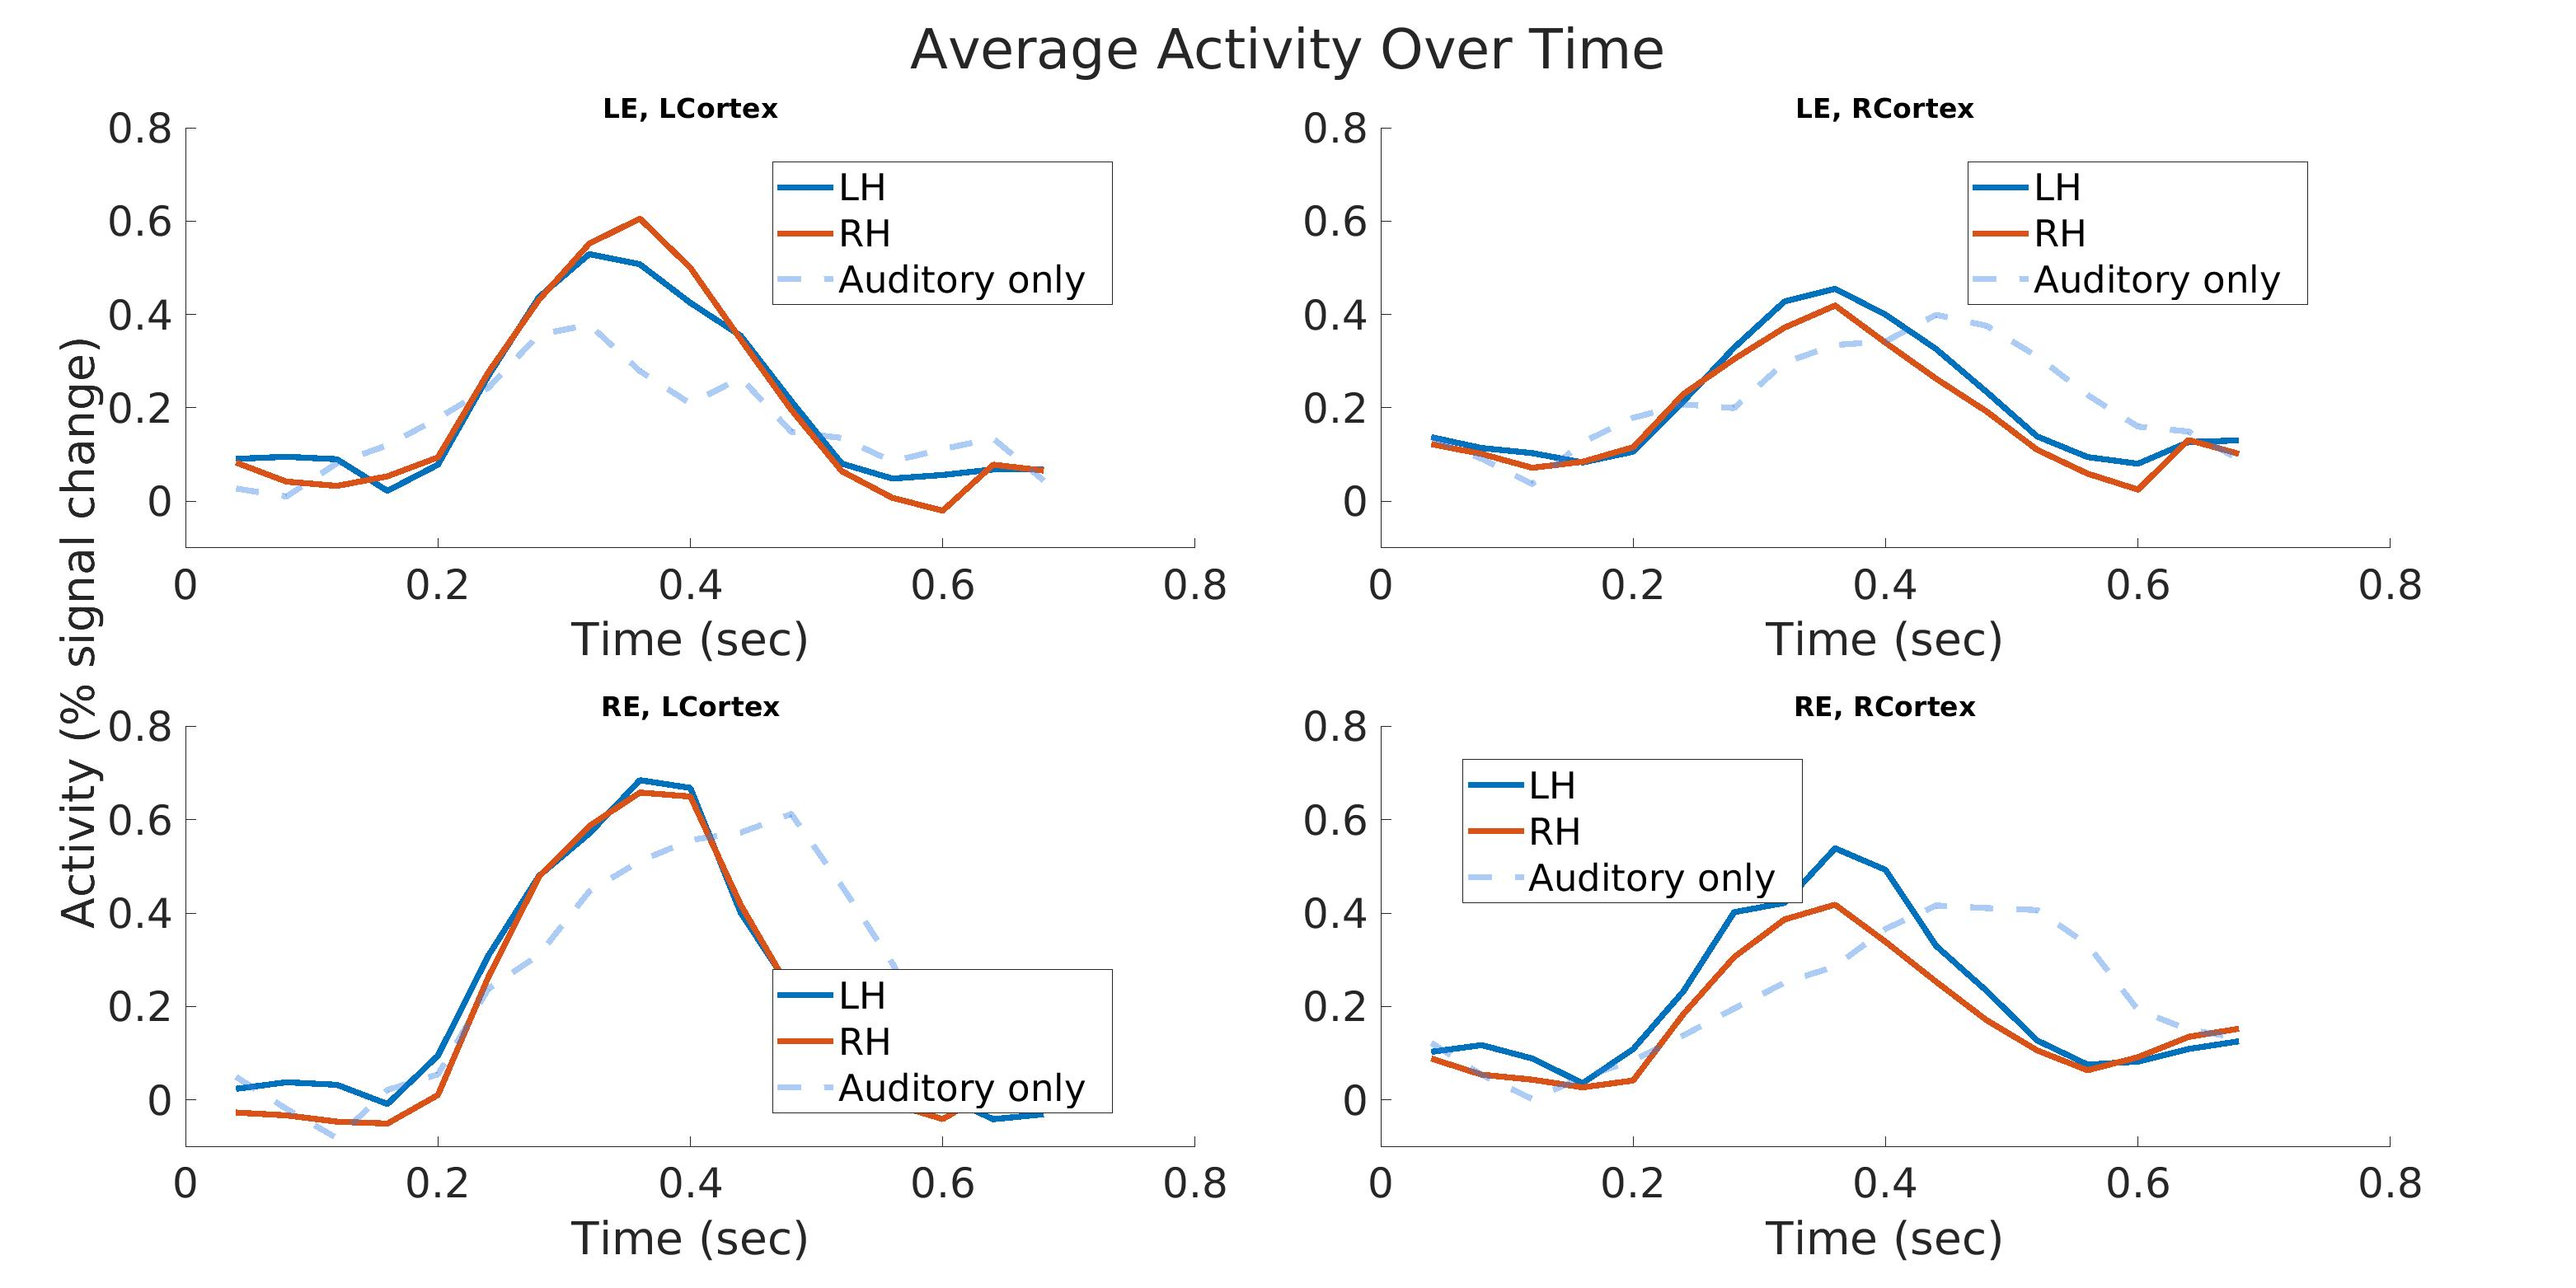
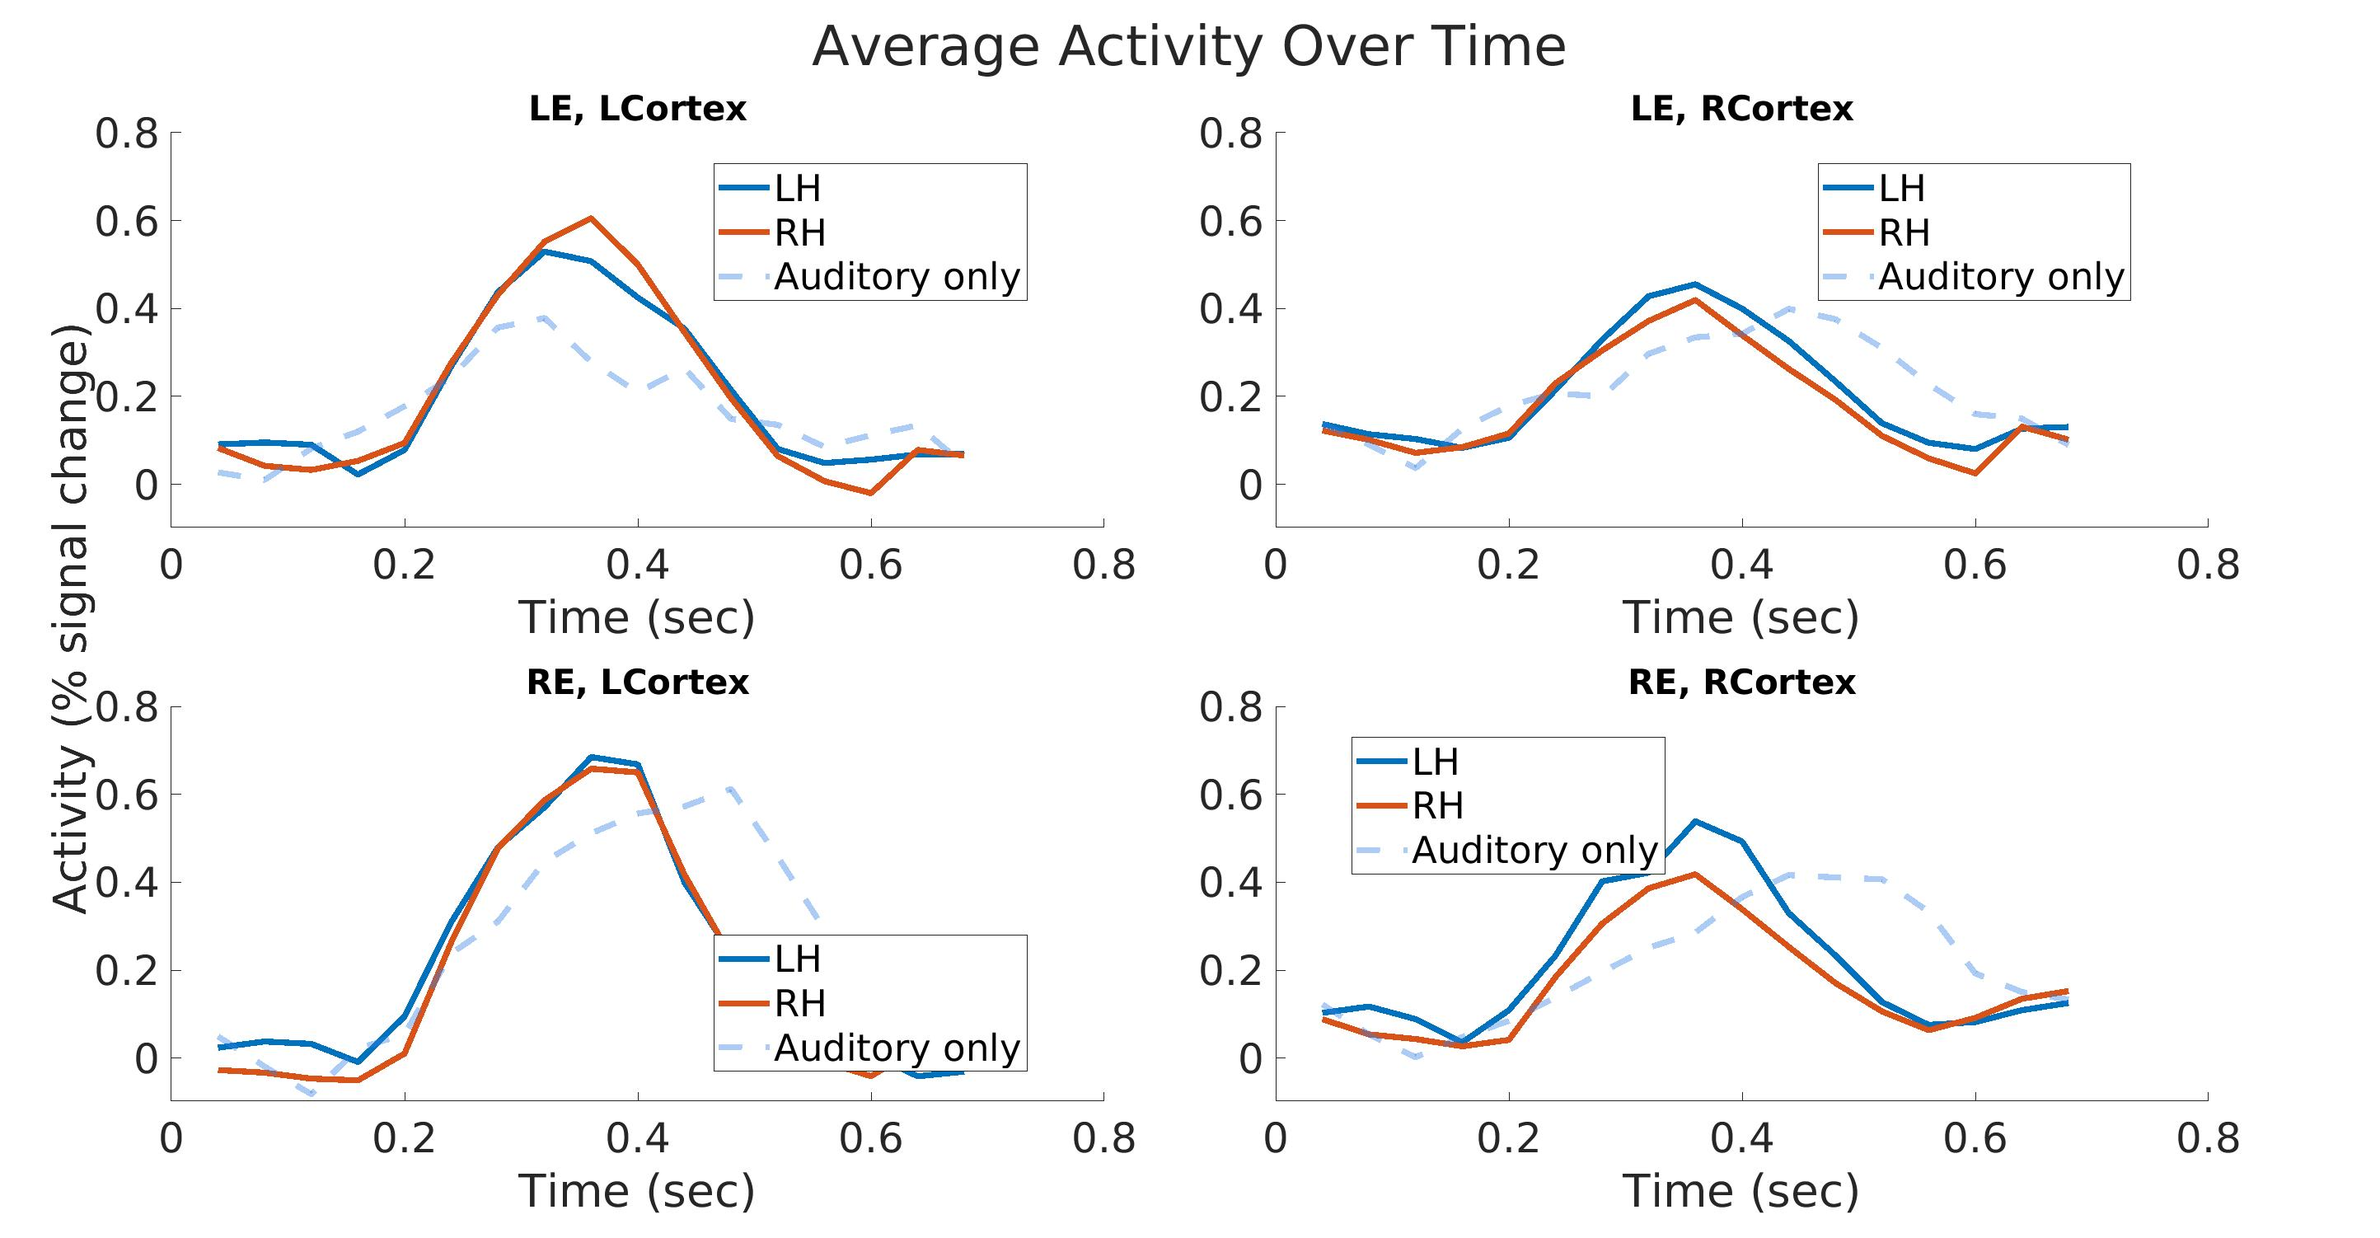
update figures dir (auto)

diff --git a/plotTimeCourseOnePlotSubplots.m b/plotTimeCourseOnePlotSubplots.m
@@ -7,7 +7,7 @@ function plotTimeCourseOnePlotSubplots()
     figure('Position', [100, 100, 2000,1000]);
     tcl = tiledlayout(2, 2);
     fontsize = 32; % Set your desired font
-    subTitleFontsize = 16; % Set your desired font
+    subTitleFontsize = 20; % Set your desired font
     tickLabelFontSize = 24; % Font size for tick labels
 
     title(tcl, 'Average Activity Over Time', 'FontSize', fontsize);
